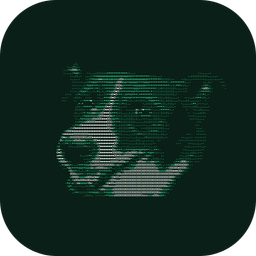
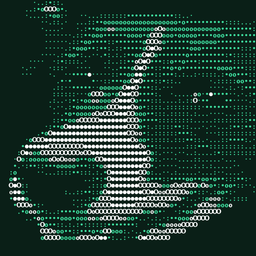
Sync dogpolicies-mcp 0.5.1 from the data repository (c5d4d0a)

diff --git a/CHANGELOG.md b/CHANGELOG.md
@@ -10,6 +10,12 @@ The data inside the package has its own date (`as_of` in every result). A
 new package version ships a new snapshot; the server also refreshes from the
 site on its own when the network allows.
 
+## 0.5.1 - 2026-11-10
+
+The connector icon is the close-up face of the homepage dog on its dark-green tile, the same picture as the
+website's app icon and the Claude directory listing. One icon replaces the light and dark transparent heads; it carries
+its own background. No tool, input or output changed (decision 127).
+
 ## 0.5.0 - 2026-11-10
 
 The Thanksgiving release (`docs/ROADMAP.md` in the data repository: R-04, R-05, R-11 to R-15, R-26, and slices of
@@ -368,7 +374,7 @@ Added
   site's own data (same thirteen tools, resources and prompts); it keeps the
   old `dogrulebook_*` tool names as aliases.
 - An eval set of 33 real questions scored for tool selection and answer
-  facts, a fuzz test, a CI matrix (Linux, macOS, Windows × Node 20, 22,
+  facts, a fuzz test, a CI matrix (Linux, macOS, Windows Ã— Node 20, 22,
   24), a dependency audit, a generated tool reference (`docs/tools.md`),
   a threat model (`docs/security.md`) and a versioning policy.
 - Release from a public repository with npm trusted publishing and
